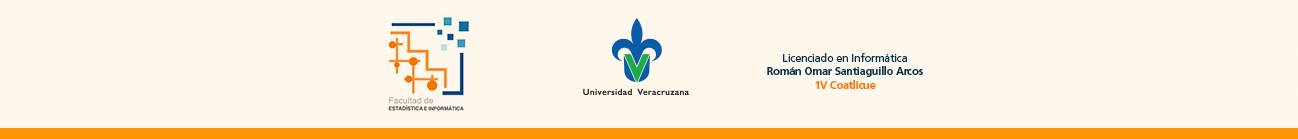
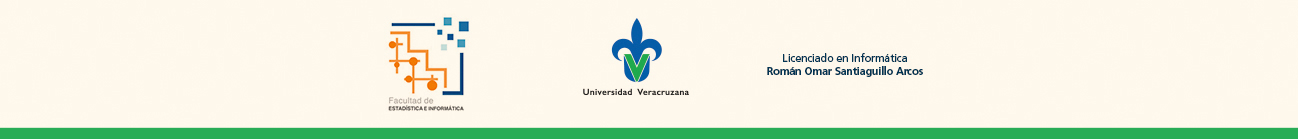
Omar/ Actualización en la implementación de nueva informacion del sistema

Changed region(s): [[0.0, 0.8921, 1.0, 1.0], [0.6163, 0.5755, 0.678, 0.6619]]

diff --git a/css/logkiosko.css b/css/logkiosko.css
@@ -1,71 +1,74 @@
 body{
     font-family: VERDANA;
-	background-image: url("../imagenes/textura-back.jpg");
+	background-image: url("../imagenes/textura-backinicio.jpg");
 }
 
 #Log{
+    font-family: VERDANA;
 	width: 250px;
 	height: 250px;
-        background: #ed9600;
-	padding: 10px;
+    background: #ed9600;
 	 position: absolute;
-    -webkit-border-bottom-right-radius: 10px;
--webkit-border-bottom-left-radius: 10px;
--moz-border-radius-bottomright: 10px;
--moz-border-radius-bottomleft: 10px;
-border-bottom-right-radius: 10px;
-border-bottom-left-radius: 10px;
-    -webkit-box-shadow: 2px 6px 28px 0px rgba(50, 50, 50, 0.75);
--moz-box-shadow:    2px 6px 28px 0px rgba(50, 50, 50, 0.75);
-box-shadow:         2px 6px 28px 0px rgba(50, 50, 50, 0.75);
-  
+    -webkit-box-shadow: 2px 6px 28px 0px rgba(50, 50, 50, 1);
+-moz-box-shadow:    2px 6px 28px 0px rgba(50, 50, 50, 1);
+box-shadow:         2px 6px 28px 0px rgba(50, 50, 50, 1);
 }
-#log{
-    position: auto;
-    width: 270px;
-   
-    -webkit-border-top-left-radius: 10px;
--webkit-border-top-right-radius: 10px;
--moz-border-radius-topleft: 10px;
--moz-border-radius-topright: 10px;
-border-top-left-radius: 10px;
-border-top-right-radius: 10px;
+
+#logg{
+    position: fixed;
+    top:0px;
+    width: 675px;
+    height: 500px;
+margin-left: 25%;
 }
-#tit{
-	opacity: .6;
-	color: #FFF;
-}
+
 #Log a{
 	opacity: .5;
 	color: #FFF;
 	
 }
 #fac{
-	width: 250px;
+	width: 230px;
 	height: 50px;
-	
+    margin: 10px;
+	font-family: VERDANA;
 }
-#logo{
- width: 250px;
- height: 350px;
- border-radius: 10px;
- margin-left: 0px;
- margin-left: 500px;
-}
-#contenedor{
-width: 250px;
-	height: 300px;
-	margin-left: 15%;
-	margin-right: 15%;
-	margin-top: 15%;
 
+#contenedor{
+    width: 250px;
+	height: 300px;
+    position: absolute;
+margin-left: 40%;
+    top:25%;
 }
 input{
-	border-radius: 5px;
 	border: none;
-	width: 180px;
+	width: 150px;
 	height: 50px;
 	color: #0066CC;
 	background: #FFF;
 	font-weight: bold;
+}
+.botones{
+position: relative;
+	width: 250px;
+    overflow: hidden;
+	height: auto;
+	margin-top: 40px;
+background: #28AD56;  }
+.boton:hover{
+    color:#28AD56;  
+    background: white;
+}
+.boton{
+	width: 270px;
+	height:50px;
+	border:none;
+	color:white;
+	padding:4px;
+	cursor:pointer;
+	font-weight: bold;
+    font-family: VERDANA;
+    background: #28AD56;
+   
 }

diff --git a/css/css1a.css b/css/css1a.css
@@ -339,9 +339,8 @@ h2{
 }
 td{
   text-align: left;
-  font-family: Roboto;
+  font-family: VERDANA;
   font-size: middle;
- 
    border:1px solid #0066CC;
   border-width:0px 0px 1px 0px;
 }
@@ -405,9 +404,9 @@ border-radius: 15px;}
   #contenedor_carrera{
     background: white;
     padding: 20px;
-    -webkit-border-radius: 5px;
--moz-border-radius: 5px;
-border-radius: 5px;
+    -webkit-border-radius: 3px;
+-moz-border-radius: 3px;
+border-radius: 3px;
   }
   
   #prinx{
@@ -481,16 +480,15 @@ color: black;
   #agregar{
    float: right;
     background-color: white;
--webkit-border-radius: 5px;
--moz-border-radius: 5px;
-border-radius: 5px;
-padding: 5px;
-width: auto;
-height: 20px;
+    -webkit-border-radius: 3px;
+    -moz-border-radius: 3px;
+    border-radius: 3px;
+    padding: 5px;
+    width: auto;
+    height: 20px;
   }
 
   #ag{
-   
 padding: 1px;
 width: auto;
 height: 20px; 
@@ -500,6 +498,9 @@ background-color: white;
 -webkit-border-radius: 2px;
 -moz-border-radius: 2px;
 border-radius: 2px;
+      -webkit-box-shadow: 0px 2px 30px 0px rgba(50, 50, 50, 1);
+-moz-box-shadow:    0px 2px 30px 0px rgba(50, 50, 50, 1);
+box-shadow:         0px 2px 30px 0px rgba(50, 50, 50, 1);
 
   }
   #ag:hover{

diff --git a/loginkiosko2.php b/loginkiosko2.php
@@ -35,19 +35,21 @@ document.oncontextmenu = function(){return false}
 </script>
 
 <body>
-	<center><div id="contenedor">
-        <img src="imagenes/logocoa.jpg" id="log">
+	 <img src="imagenes/coatli2.png" id="logg">
+    <center><div id="contenedor">
 	<div id="Log">
 
 		<form method="POST" name="login">
 			
-				<a for="facultad"><h1>Facultad:</h1></a><br>
+				<center><a for="facultad">
+                    <h1>Facultad</h1></a>
+                </center>
 			    
 			   		<?php
 			   		echo "<select id='fac'name='facultad'>";
 			   		require_once("conexiones/conexion.php");
 						    //Preguntamos los nombres de las materias segun su idfacultad
-						 $mysql="select idfacultad, nombre from facultad ";
+						 $mysql="SELECT idfacultad, nombre from facultad ";
 						$resul=mysql_query($mysql) or die(mysql_error());
 						while($row=mysql_fetch_array($resul)){
 						    echo "<option value='".$row['idfacultad']."'>";
@@ -59,14 +61,14 @@ document.oncontextmenu = function(){return false}
 					?>
 					<br>
 				
-			<br/><div id="botones">
-				<input name="entrar"  class="boton"type="submit" value="INGRESAR"/>
+			<br/><center><div class="botones">
+            <center><input name="entrar"  class="boton" type="submit" value="INGRESAR"/></center>
 			    
 		</form>
 
 
-	</div>
+            </div></center>
 
-        </div></div></center>
+			</div></center>
 
 </body>

diff --git a/Controller/agregareeducativa.php b/Controller/agregareeducativa.php
@@ -5,11 +5,8 @@ include"../../Vistas/seguridad.php";
     if (@$_POST['guardar']) {
         //le metemos la conexión
     require_once("../../conexiones/conexion.php");
-        if(isset($_POST['nrc'])and
-            ($_POST['catedratico'])and
-            ($_POST['carrera'])and
-            ($_POST['nrc98'])and
-            ($_POST['nombre']!="")){ 
+        if(isset(
+            $_POST['nombre'])){ 
             //Limpiamos caracteres especiales
             $nombre= mysql_real_escape_string($_POST['nombre']);
             $carrera= mysql_real_escape_string($_POST['carrera']);
@@ -31,7 +28,7 @@ include"../../Vistas/seguridad.php";
 
             if ($nrc==$nrcf) {
                 echo "<script>alert('Mi experiencia educativa ya existe.');
-                window.location = '../../Entidades/eeducativa.php';</script>";
+                window.location = '../Entidades/eeducativa.php';</script>";
                 # code...
             }else{
                 //Obtenemos idfac del administrador

diff --git a/loginkiosko.php b/loginkiosko.php
@@ -32,13 +32,16 @@ document.oncontextmenu = function(){return false}
 //]]>
 </script>
 <body>
+    
+    <img src="imagenes/coatli2.png" id="logg">
     <center><div id="contenedor">
-        <img src="imagenes/logocoa.jpg" id="log">
 	<div id="Log">
 
 		<form method="POST" name="login">
 			
-				<center><a for="facultad"><h1>Facultad</h1></a></center>
+				<center><a for="facultad">
+                    <h1>Facultad</h1></a>
+                </center>
 			    
 			   		<?php
 			   		echo "<select id='fac'name='facultad'>";
@@ -56,8 +59,8 @@ document.oncontextmenu = function(){return false}
 					?>
 					<br>
 				
-			<br/><center><div id="botones">
-            <center><input name="entrar"  class="boton"type="submit" value="INGRESAR"/></center>
+			<br/><center><div class="botones">
+            <center><input name="entrar"  class="boton" type="submit" value="INGRESAR"/></center>
 			    
 		</form>
 

diff --git a/Vistas/Agregar/agregareeducativa.php b/Vistas/Agregar/agregareeducativa.php
@@ -55,7 +55,7 @@ document.oncontextmenu = function(){return false}
             <label><a class="text1">NRC 98:</a></label><br>
             <input type="text" name="nrc98" pleaceholder="NRC Vigente" maxlength="5"><br><br>
             <label><a class="text1">Nombre:</a></label><br>
-            <input type="text" name="nombre" placeholder="Nombre de la Materia">  <br> <br>    
+            <input type="text" name="nombre" placeholder="Nombre de la Experiencia Educativa ">  <br> <br>    
 
                         <?php 
                          require_once("../../conexiones/conexion.php");
@@ -103,7 +103,7 @@ echo "</select>";
 
 ?>
 </fieldset>
-<input type="submit"  value="GUARDAR" id="btnguardar" name="guardar"> <input type="reset" id="btnreset" value="RESET">
+<input type="submit"  value="GUARDAR" id="btnguardar" name="guardar">
        
     </div>
     </form></div>

diff --git a/Vistas/Agregar/agregarfacultad.php b/Vistas/Agregar/agregarfacultad.php
@@ -33,7 +33,7 @@ document.oncontextmenu = function(){return false}
         <li><a>/</a></li>
         <li><a href="../Entidades/facultad.php">FACULTAD</a></li>
        <li><a>/</a></li>
-        <li><a>AGREGAR FACULTAD</a></li>
+        <li><a id ="qwerty">AGREGAR FACULTAD</a></li>
     </ul>
 </nav>
 </div>
@@ -56,7 +56,7 @@ document.oncontextmenu = function(){return false}
             <input type="text" name="nombre"><br>
             <label><a class="text1">Sede:</a></label><br>
             <input type="text"name="sede"><br></fieldset>
-        <input  type="submit"  value="GUARDAR" id="btnguardar" name="guardar" > <input type="reset" id="btnreset" value="RESET">
+        <input  type="submit"  value="GUARDAR" id="btnguardar" name="guardar" >
         </form>
     </div>
     </div>

diff --git a/Vistas/Entidades/eeducativa.php b/Vistas/Entidades/eeducativa.php
@@ -67,7 +67,7 @@ $(document).ready(function(event){
  <?php
  
    echo "<div id='agregar'><form  method='post' action='../Agregar/agregareeducativa.php'><img src='../../imagenes/add.gif' class='icon'>
-                        <input type='submit' value='Agregar Materia'  name='agregar' class='conf'>
+                        <input type='submit' value='Agregar Experiencia Educativa'  name='agregar' class='conf'>
                         </form></div>";
  echo"
 

diff --git a/Controller/agregarfacultad.php b/Controller/agregarfacultad.php
@@ -4,7 +4,7 @@ include"../seguridad.php";
     //si presiona guardar //
     if (@$_POST['guardar']){
     // se mete la conexión //
-    require_once("../Conexiones/conexion.php");
+    require_once("../../Conexiones/conexion.php");
         if(isset($_POST['nombre'])and
             ($_POST['sede']!="")){ 
             //limpiamos caracteres especiales
